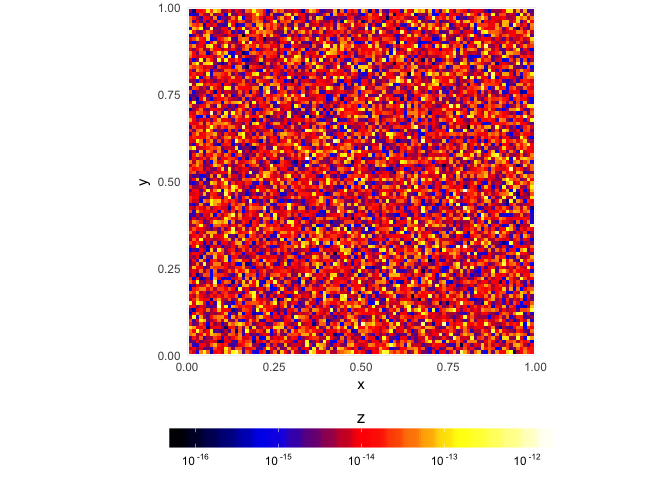
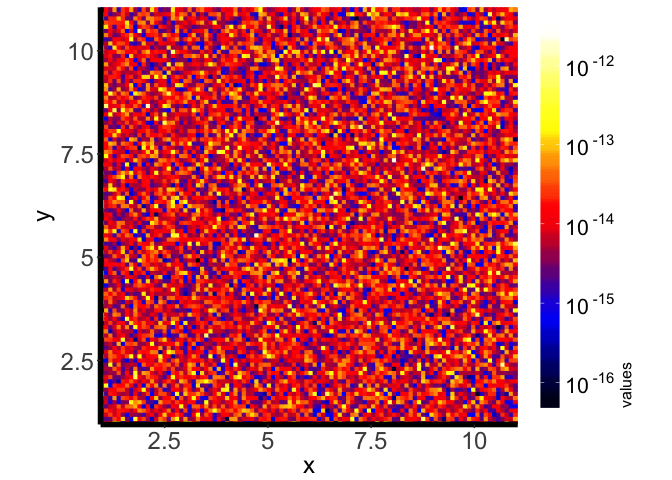
Now plotting everything using polygons. Implemented logarithmic x and y scales.

diff --git a/README.md b/README.md
@@ -12,6 +12,16 @@ A reminder: to install these packages, you can run the following code:
     install.packages("RColorBrewer")
     install.packages("spatialfil")
 
+Including the plotting routine
+------------------------------
+
+For the time being the plotting routine is not an R package, but rather
+it should be included using the source function. The file can be found
+here: [plotimggg.R](http://www.uv.es/mimica/Rblog/pltimggg.R). Put the
+file somewhere (in your working directory, for example) and include it:
+
+    source("pltimggg.R")
+
 2D plots
 --------
 
@@ -20,20 +30,15 @@ A reminder: to install these packages, you can run the following code:
 For it to make any sense to use pltimggg, you need to have a 2D array
 and the corresponding vectors corresponding to each axis. In this
 example we will generate a 100x100 array with axes spanning the interval
-\[0, 1\].
-
-    # source (do not forget to use the correct path to pltimggg.R)
-    source("pltimggg.R")
-
-
+\[1, 11\].
 
     # define array dimensions
     nx <- 100
     ny <- 100
 
     # axes limits
-    xlim = c(0e0, 1e0)
-    ylim = c(0e0, 1e0)
+    xlim = c(1e0, 11e0)
+    ylim = c(1e0, 11e0)
 
     # compute axes
     x <- (0 : (nx - 1)) * (xlim[2] - xlim[1]) / (nx - 1) + xlim[1]
@@ -49,7 +54,7 @@ Now we can try to plot the image using the default settings:
 
     pltimggg.plot2D(x, y, img)
 
-![](README_files/figure-markdown_strict/unnamed-chunk-3-1.png)
+![](README_files/figure-markdown_strict/unnamed-chunk-4-1.png)
 
 ### Parameters
 
@@ -61,7 +66,7 @@ To plot the image in logarithmic scale set zlog to TRUE:
 
     pltimggg.plot2D(x, y, img, zlog=TRUE)
 
-![](README_files/figure-markdown_strict/unnamed-chunk-4-1.png)
+![](README_files/figure-markdown_strict/unnamed-chunk-5-1.png)
 
 #### legend.direction: colourbar direction, default legend.direction = "horizontal"
 
@@ -69,7 +74,7 @@ To plot the colourbar on the right set legend.direction to "vertical":
 
     pltimggg.plot2D(x, y, img, zlog=TRUE, legend.direction = "vertical")
 
-![](README_files/figure-markdown_strict/unnamed-chunk-5-1.png)
+![](README_files/figure-markdown_strict/unnamed-chunk-6-1.png)
 
 #### xlab, ylab and zlab: axes and colourbar labels, default: "x", "y" and "z", respectively
 
@@ -78,21 +83,16 @@ appropriate values to xlab, ylab and zlab:
 
     pltimggg.plot2D(x, y, img, zlog=TRUE, legend.direction = "vertical", xlab="x (degrees)", ylab="y (degrees)", zlab=expression(paste("intensity ["~"erg"~"s"^"-1"~"cm"^"-2"~"arcmin"^"-2"~"]")))
 
-![](README_files/figure-markdown_strict/unnamed-chunk-6-1.png)
-
-#### conv.kernel: image convolution
-
-If we want to perform a simple convolution of the image with a Gaussian
-kernel we have to provide the kernel width (FWHM of the Gaussian) in the
-units in which axes are measured. In our examples the axes go from 0 to
-1. The following command convolves the image shown in the previous
-example with a Gaussin kernel 0.015 units wide:
-
-    pltimggg.plot2D(x, y, img, zlog=TRUE, legend.direction = "vertical", conv.kernel = 0.015)
-
-    ## [1] "Convolving with sigma =  0.015  (pixels =  1.485 )"
-
 ![](README_files/figure-markdown_strict/unnamed-chunk-7-1.png)
+
+#### xlog, ylog: logarithmic scaling of the coordinate axes, default: FALSE
+
+We can also plot in the logarithmic scale by setting xlog and/or ylog to
+TRUE.
+
+    pltimggg.plot2D(x, y, img, zlog=TRUE, legend.direction = "vertical", xlog = TRUE, ylog = TRUE)
+
+![](README_files/figure-markdown_strict/unnamed-chunk-8-1.png)
 
 #### zlinformat: colourscale values format, default zlinformat = FALSE
 
@@ -102,23 +102,54 @@ the scientific notation we set zlinformat to TRUE:
 
     pltimggg.plot2D(x, y, img, zlog=TRUE, legend.direction = "vertical", zlinformat=TRUE)
 
-![](README_files/figure-markdown_strict/unnamed-chunk-8-1.png)
+![](README_files/figure-markdown_strict/unnamed-chunk-9-1.png)
 
-#### zdigits: number of digits in the scientific notation, default zdigits = 1
+#### xlinformat, ylinformat: axes values format, default FALSE
+
+Similar to zlinformat, but for axes. By default nothing special is done
+with the axes, but it can be changed:
+
+    pltimggg.plot2D(x, y, img, zlog=TRUE, legend.direction = "vertical", xlinformat=TRUE)
+
+![](README_files/figure-markdown_strict/unnamed-chunk-10-1.png)
+
+#### xdigits, ydigits and zdigits: number of digits in the scientific notation for the colourbar, default 1
 
 By default only one digit is printed in the scientific notation. To use
-2 set zdigits to 2 (note that this only has an effect when zlinformat =
-TRUE or when plotting in a linear scale \[zlog = FALSE\]):
+2 set xdigits, ydigits or zdigits to 2 (note that this only has an
+effect when xlinformat, ylinformat or zlinformat = TRUE or when plotting
+in a linear scale \[xlog, ylog or zlog = FALSE\]):
 
     pltimggg.plot2D(x, y, img, zlog=TRUE, legend.direction = "vertical", zlinformat=TRUE, zdigits = 2)
 
-![](README_files/figure-markdown_strict/unnamed-chunk-9-1.png)
+![](README_files/figure-markdown_strict/unnamed-chunk-11-1.png)
 
 The parameter has no effect when the powers of ten are used:
 
     pltimggg.plot2D(x, y, img, zlog=TRUE, legend.direction = "vertical", zdigits = 2)
 
-![](README_files/figure-markdown_strict/unnamed-chunk-10-1.png)
+![](README_files/figure-markdown_strict/unnamed-chunk-12-1.png)
+
+An example with the x-axis:
+
+    pltimggg.plot2D(x, y, img, xdigits = 2, xlinformat = TRUE)
+
+![](README_files/figure-markdown_strict/unnamed-chunk-13-1.png)
+
+#### aspect: preserve aspect ratio, default aspect = TRUE
+
+By default, the coordinates have an equal length scale in x and y
+directions. This can cause problems in semilogarithmic plots:
+
+    pltimggg.plot2D(x, y, img, xlog = TRUE)
+
+![](README_files/figure-markdown_strict/unnamed-chunk-14-1.png)
+
+A remedy is to set aspect to FALSE:
+
+    pltimggg.plot2D(x, y, img, xlog = TRUE, aspect = FALSE)
+
+![](README_files/figure-markdown_strict/unnamed-chunk-15-1.png)
 
 #### zbarwidth and zbarheight: colourbar width and height, default: zbarwidth = 20, zbarheight = 1
 
@@ -131,7 +162,7 @@ and zbarheight to 2:
 
     pltimggg.plot2D(x, y, img, zlog=TRUE, zbarwidth=25, zbarheight = 2)
 
-![](README_files/figure-markdown_strict/unnamed-chunk-11-1.png)
+![](README_files/figure-markdown_strict/unnamed-chunk-16-1.png)
 
 For the vertical bar remember that zbarwidth and zbarheight have the
 opposite meaning than in the horizontal case. To reduce the length and
@@ -139,7 +170,7 @@ thickness set zbarheight to 18 and zbarwidth to 0.5:
 
     pltimggg.plot2D(x, y, img, zlog=TRUE, legend.direction = "vertical", zbarheight = 18, zbarwidth = 0.5)
 
-![](README_files/figure-markdown_strict/unnamed-chunk-12-1.png)
+![](README_files/figure-markdown_strict/unnamed-chunk-17-1.png)
 
 #### ztitleposition: colourbar title position, default ztitleposition = "top"
 
@@ -149,7 +180,7 @@ the title below the vertical colourbar set ztitleposition to "bottom":
 
     pltimggg.plot2D(x, y, img, zlog=TRUE, legend.direction = "vertical", ztitleposition = "bottom", zlab="values")
 
-![](README_files/figure-markdown_strict/unnamed-chunk-13-1.png)
+![](README_files/figure-markdown_strict/unnamed-chunk-18-1.png)
 
 Note that the title is rotated by 90 degrees, which is not something we
 may necessarily want here. The next parameter can help.
@@ -164,7 +195,7 @@ may want to print the title horizontally and set ztitleorientation to 0:
 
     pltimggg.plot2D(x, y, img, zlog=TRUE, legend.direction = "vertical", ztitleposition = "bottom", zlab="values", ztitleorientation = 0)
 
-![](README_files/figure-markdown_strict/unnamed-chunk-14-1.png)
+![](README_files/figure-markdown_strict/unnamed-chunk-19-1.png)
 
 #### ztitlehjust and ztitlevjust: title horizontal and vertical justification, default: 0.5 both
 
@@ -177,13 +208,13 @@ Move the title to the bottom:
 
     pltimggg.plot2D(x, y, img, zlog=TRUE, legend.direction = "vertical", zlab="values", ztitlehjust = 0)
 
-![](README_files/figure-markdown_strict/unnamed-chunk-15-1.png)
+![](README_files/figure-markdown_strict/unnamed-chunk-20-1.png)
 
 Move the title to the right:
 
     pltimggg.plot2D(x, y, img, zlog=TRUE, zlab="values", ztitlehjust = 1)
 
-![](README_files/figure-markdown_strict/unnamed-chunk-16-1.png)
+![](README_files/figure-markdown_strict/unnamed-chunk-21-1.png)
 
 #### colours: colourscale to be used, default: internally defined rainbow
 
@@ -195,7 +226,7 @@ plotimggg.plot2D:
     myPalette <- colorRampPalette(c("black", "white"))(100)
     pltimggg.plot2D(x, y, img, zlog=TRUE, legend.direction = "vertical", colours = myPalette)
 
-![](README_files/figure-markdown_strict/unnamed-chunk-17-1.png)
+![](README_files/figure-markdown_strict/unnamed-chunk-22-1.png)
 
 You can also combine the palettes. Let's add another two palettes,
 usefull when particular ranges of values should be emphasized:
@@ -203,7 +234,7 @@ usefull when particular ranges of values should be emphasized:
     myPalette <- c(colorRampPalette(c("black", "white"))(100), colorRampPalette(c("red", "blue"))(100), colorRampPalette(c("magenta", "orange"))(100))
     pltimggg.plot2D(x, y, img, zlog=TRUE, legend.direction = "vertical", colours = myPalette)
 
-![](README_files/figure-markdown_strict/unnamed-chunk-18-1.png)
+![](README_files/figure-markdown_strict/unnamed-chunk-23-1.png)
 
 "Interesting" plots can be generated by shuffling the colours (not the
 use of rbind() instead of c(), also white has been replaced by green):
@@ -211,7 +242,7 @@ use of rbind() instead of c(), also white has been replaced by green):
     myPalette <- rbind(colorRampPalette(c("black", "green"))(100), colorRampPalette(c("green", "red"))(100), colorRampPalette(c("red", "blue"))(100))
     pltimggg.plot2D(x, y, img, zlog=TRUE, legend.direction = "vertical", colours = myPalette)
 
-![](README_files/figure-markdown_strict/unnamed-chunk-19-1.png)
+![](README_files/figure-markdown_strict/unnamed-chunk-24-1.png)
 
 #### theme: ggplot theme to be used, default: internally defined theme
 
@@ -221,11 +252,30 @@ exmple, to use the minimal theme set theme to theme\_minimal():
 
     pltimggg.plot2D(x, y, img, zlog=TRUE, theme = theme_minimal())
 
-![](README_files/figure-markdown_strict/unnamed-chunk-20-1.png)
+![](README_files/figure-markdown_strict/unnamed-chunk-25-1.png)
 
 More information can be obtained by reading the ggplot documentation. Or
 you can copy the definition of "mytheme" from the plotimggg.R and create
 your own custom theme.
+
+#### conv.kernel: image convolution
+
+If we want to perform a simple convolution of the image with a Gaussian
+kernel we have to provide the kernel width (FWHM of the Gaussian) in the
+units in which axes are measured. In our examples the axes go from 1 to
+11. The following command convolves the image shown in the previous
+example with a Gaussin kernel 0.6 units wide:
+
+    pltimggg.plot2D(x, y, img, zlog=TRUE, legend.direction = "vertical", conv.kernel = 0.6)
+
+    ## [1] "Convolving with sigma =  0.6  (pixels =  5.94 )"
+
+![](README_files/figure-markdown_strict/unnamed-chunk-26-1.png)
+
+Note that the convolution is currently performed on the original 2D
+image array, and thus only makes sense when applied to Cartesian
+geometry. Hopefully in the future a more general convolution will be
+implemented.
 
 ### Spherical coordinates
 
@@ -262,15 +312,15 @@ Now we call the routine with the parameter igeom set to 2:
 
     pltimggg.plot2D(sx, sy, simg, legend.direction = "vertical", igeom = 2, zlog=TRUE)
 
-![](README_files/figure-markdown_strict/unnamed-chunk-22-1.png)
+![](README_files/figure-markdown_strict/unnamed-chunk-28-1.png)
 
 We can also plot just a small wedge:
 
     pltimggg.plot2D(sx, sy[250:270], simg[,250:270], legend.direction = "vertical", igeom = 2, zlog=TRUE)
 
-![](README_files/figure-markdown_strict/unnamed-chunk-23-1.png) Or we
+![](README_files/figure-markdown_strict/unnamed-chunk-29-1.png) Or we
 can also plot everything but that small wedge:
 
     pltimggg.plot2D(sx, sy[-(250:270)], simg[,-(250:270)], legend.direction = "vertical", igeom = 2, zlog=TRUE)
 
-![](README_files/figure-markdown_strict/unnamed-chunk-24-1.png)
+![](README_files/figure-markdown_strict/unnamed-chunk-30-1.png)
